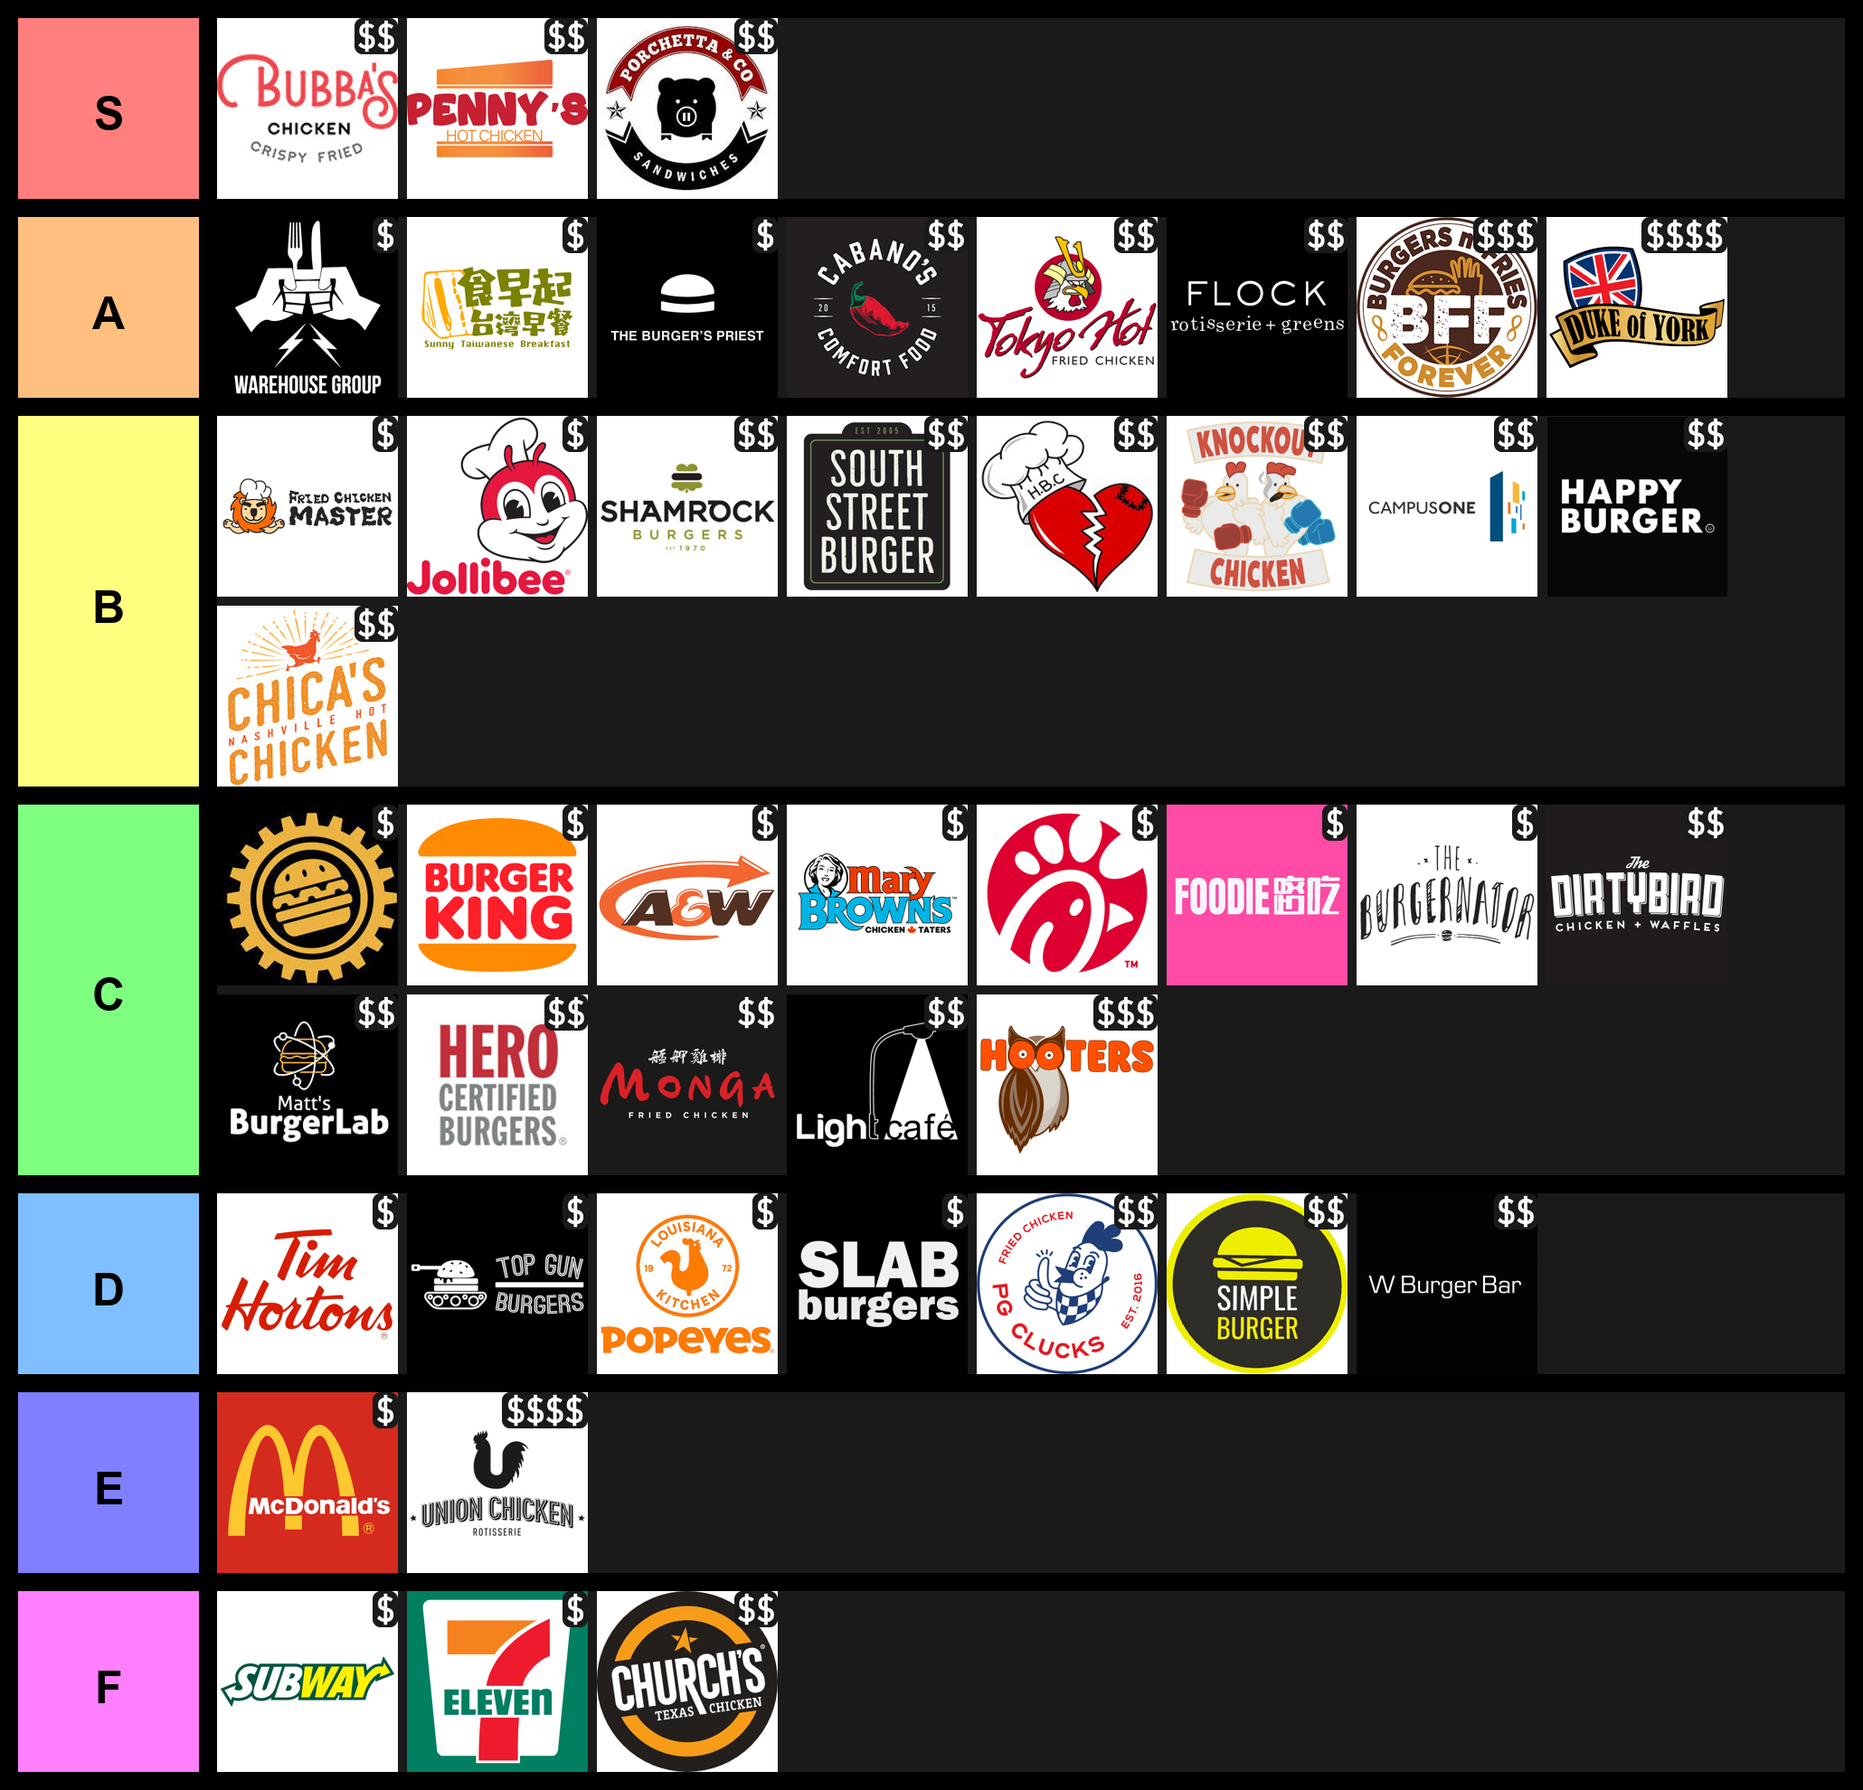
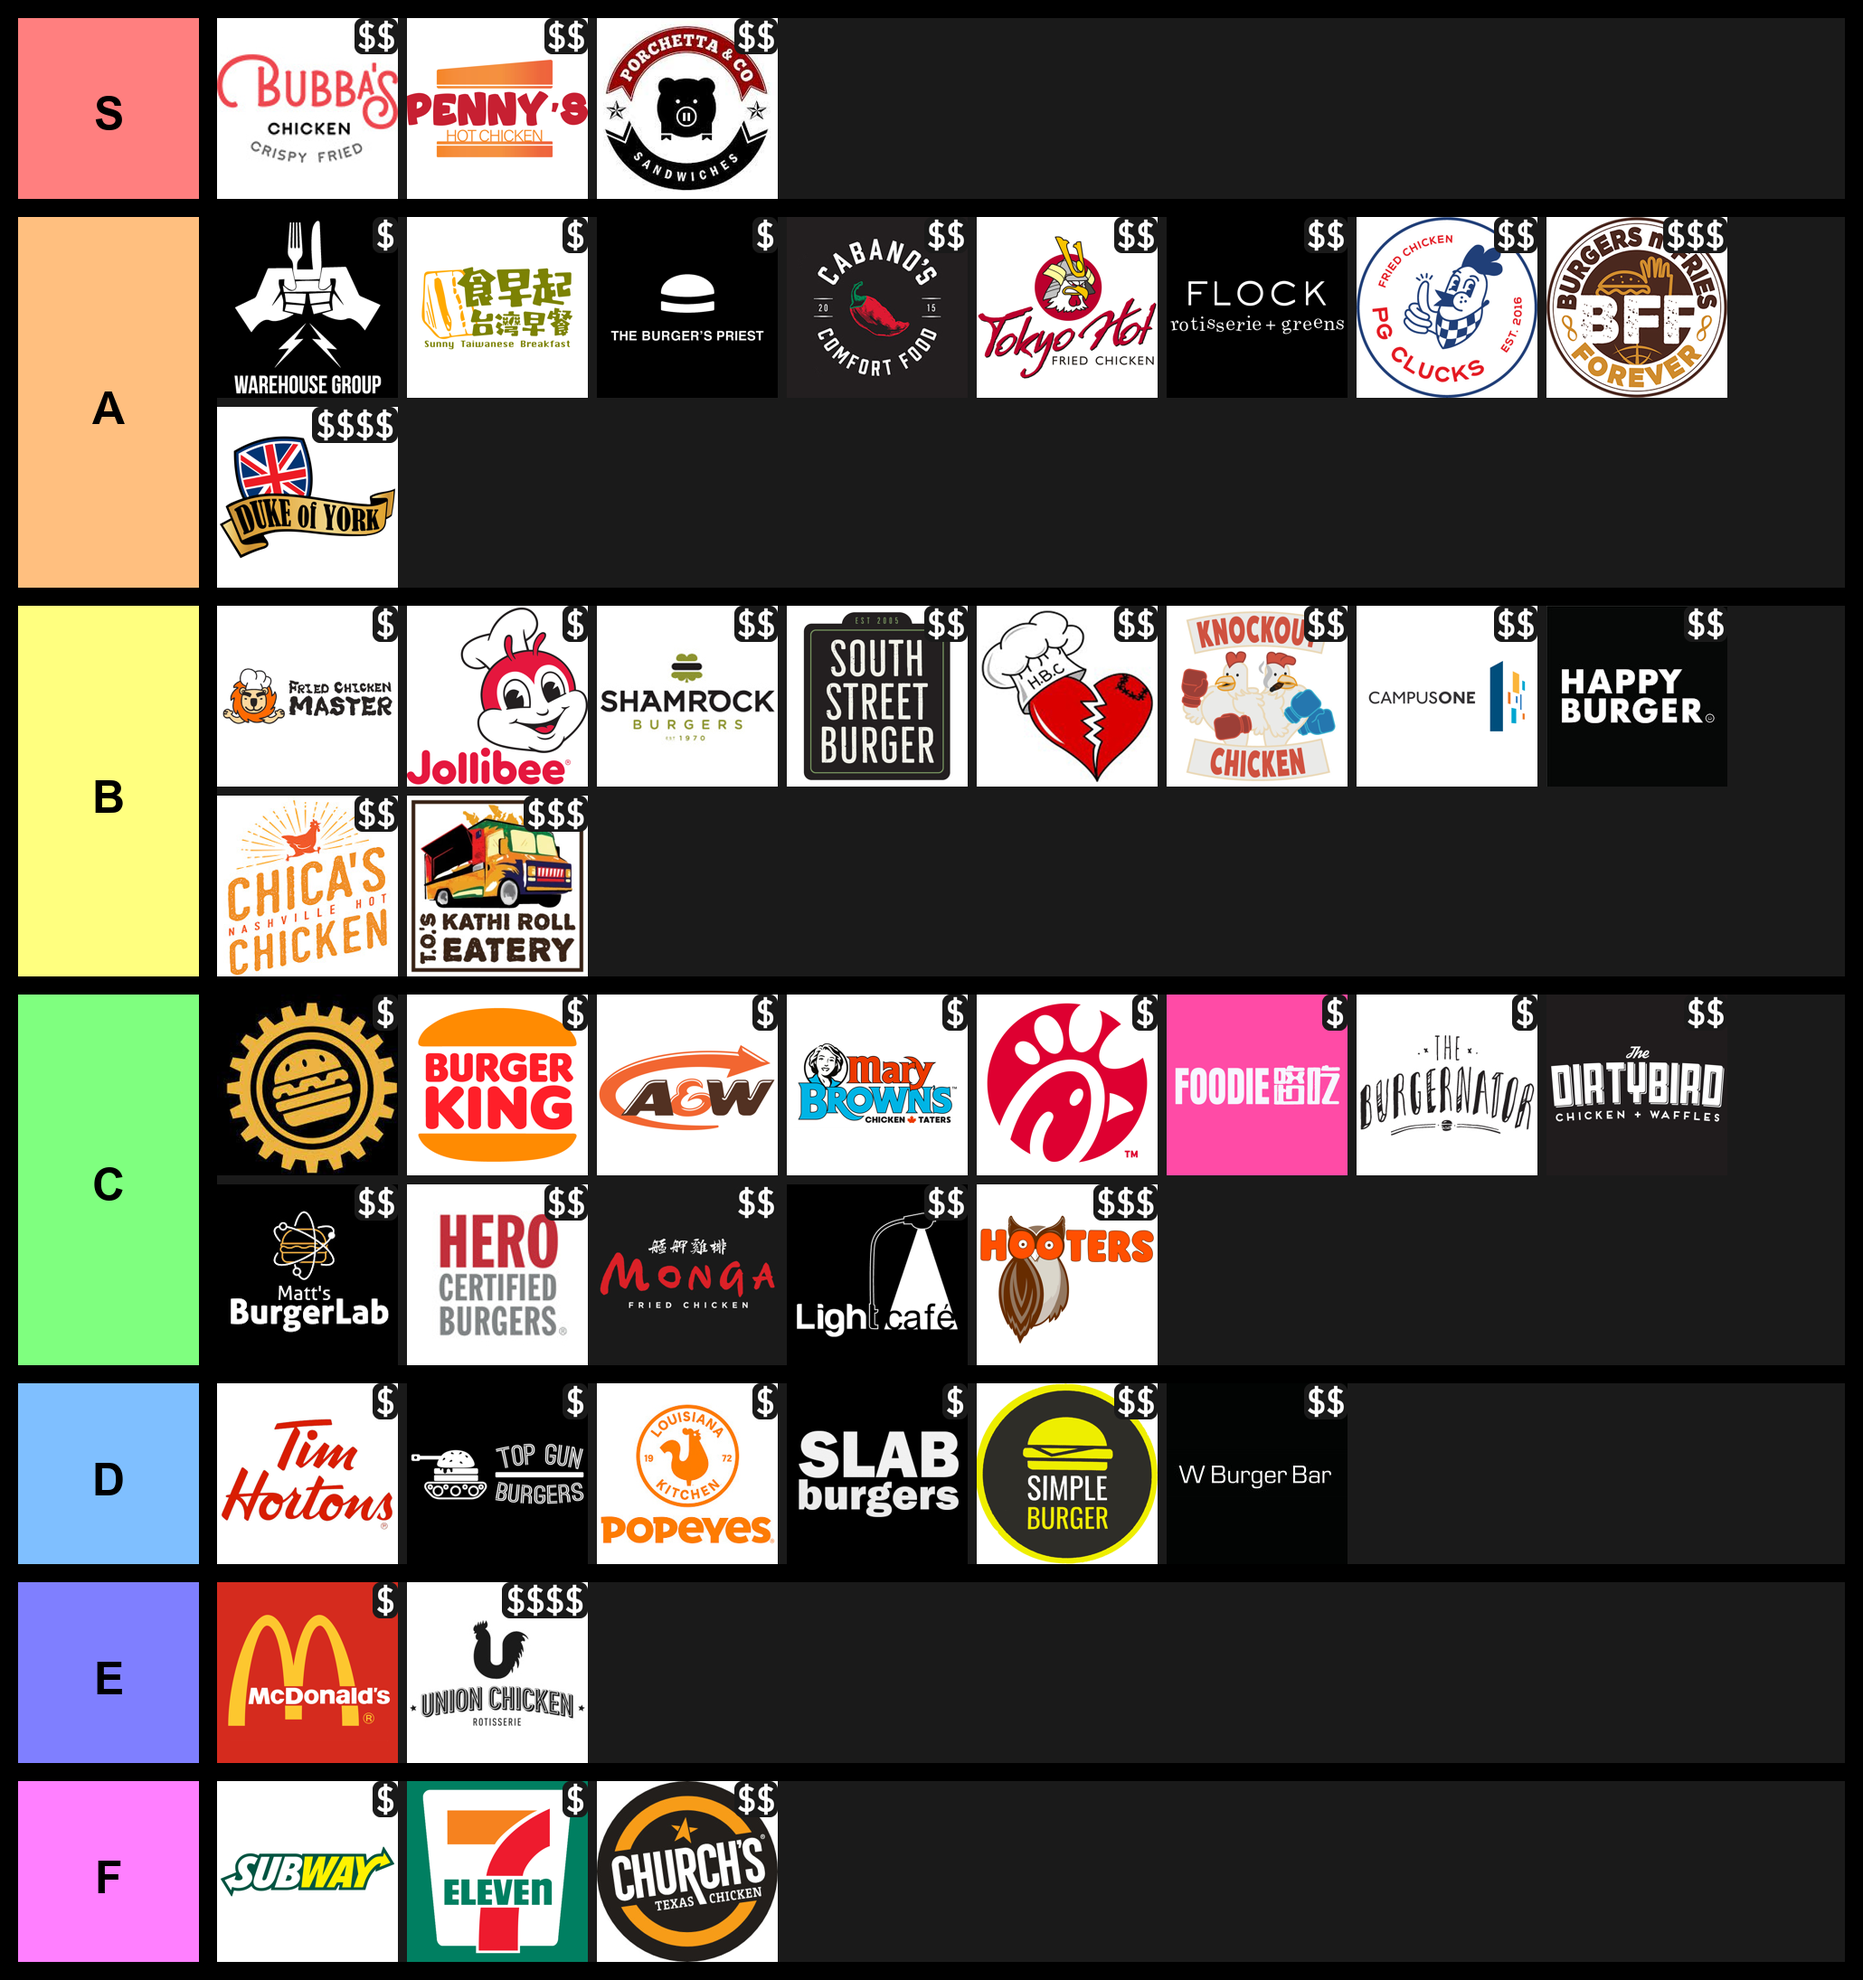
HUGE promotion to PG clucks, list Kathi Roll

diff --git a/tierlist.py b/tierlist.py
@@ -14,7 +14,7 @@ BACKGROUND_COLOUR = (26, 26, 26)
 # TODO: Change tier_num_rows to be variable, not hard-coded
 tier_num_rows = {
     'S': 1,
-    'A': 1,
+    'A': 2,
     'B': 2,
     'C': 2,
     'D': 1,
